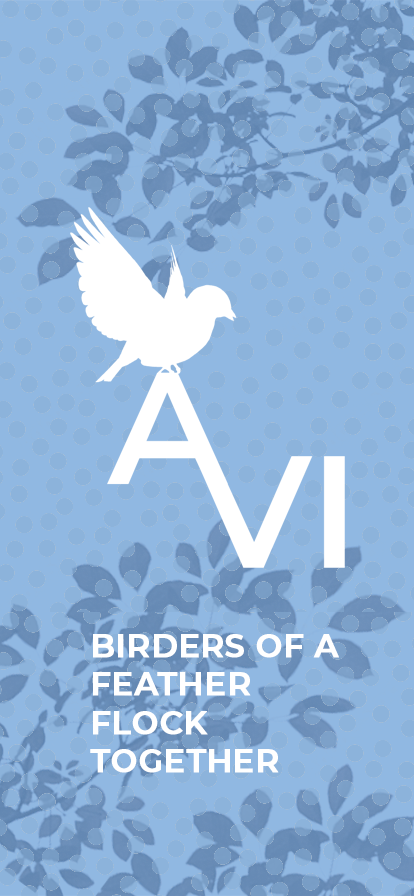
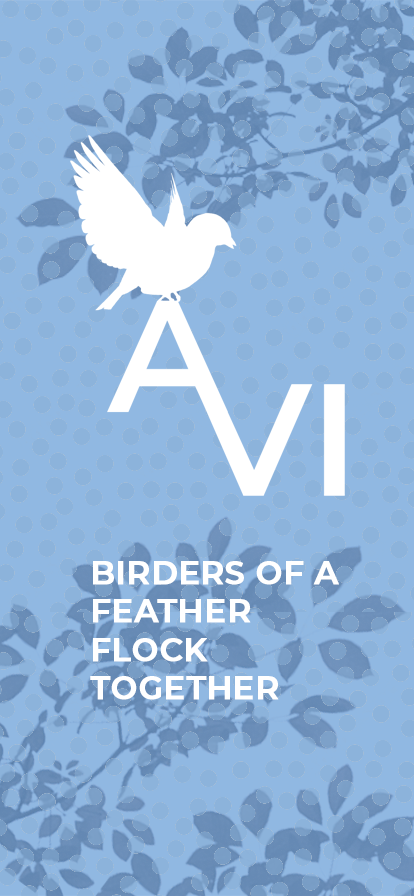
change out landing image, refinement, and start responsive nav, responsive landing image load

Changed region(s): [[0.1739, 0.1562, 0.7536, 0.875], [0.7536, 0.4062, 0.8406, 0.6562], [0.7536, 0.6875, 0.8116, 0.75]]

diff --git a/src/components/NavBar/NavBar.jsx b/src/components/NavBar/NavBar.jsx
@@ -1,5 +1,6 @@
 import { NavLink } from 'react-router-dom'
 import styles from './NavBar.module.css'
+import { slide as Menu } from 'react-burger-menu'
 
 const NavBar = ({ user, handleLogout}) => {
 
@@ -41,3 +42,61 @@ const NavBar = ({ user, handleLogout}) => {
 
 
 export default NavBar
+
+
+// import React, { useState } from 'react';
+// import {
+//   MDBContainer,
+//   MDBCollapse,
+//   MDBNavbar,
+//   MDBNavbarToggler,
+//   MDBIcon,
+//   MDBBtn,
+// } from 'mdb-react-ui-kit';
+
+// export default function App() {
+//   const [showNavExternal2, setShowNavExternal2] = useState(false);
+
+//   return (
+//     <>
+//       <MDBNavbar>
+//         <MDBContainer fluid>
+//           <MDBNavbarToggler
+//             type='button'
+//             data-target='#navbarToggleExternalContent'
+//             aria-controls='navbarToggleExternalContent'
+//             aria-expanded='false'
+//             aria-label='Toggle navigation'
+//             onClick={() => setShowNavExternal2(!showNavExternal2)}
+//           >
+//             <MDBIcon icon='bars' fas />
+//           </MDBNavbarToggler>
+//         </MDBContainer>
+//       </MDBNavbar>
+
+//       <MDBCollapse show={showNavExternal2}>
+//         <div className='bg-light shadow-3 p-4'>
+//           <MDBBtn block className='border-bottom m-0' color='link'>
+//           <li><NavLink to={`/profiles/${user.profile}`}>   Welcome, {user ? user.name.toUpperCase() : 'Birder'}</NavLink></li>
+//           </MDBBtn>
+//           <MDBBtn block className='border-bottom m-0' color='link'>
+//             <li><NavLink to="/profiles">BIRDERS</NavLink></li>
+//           </MDBBtn>
+//           <MDBBtn block className='border-bottom m-0' color='link'>
+//             <li><NavLink to="/birds">BIRDS</NavLink></li>
+//           </MDBBtn>
+//           <MDBBtn block className='border-bottom m-0' color='link'>
+//             <li><NavLink to="/supplylists">SUPPLY LISTS</NavLink></li>
+//           </MDBBtn>
+//             <li><NavLink to="/events">EVENTS</NavLink></li>
+//           <MDBBtn block className='border-bottom m-0' color='link'>
+//             <li><NavLink to="/questions">FIELD NOTES</NavLink></li>
+//           </MDBBtn>
+//           <MDBBtn block className='border-bottom m-0' color='link'>
+//             <li><NavLink to="" onClick={handleLogout}>LOG OUT</NavLink></li>
+//           </MDBBtn>
+//         </div>
+//       </MDBCollapse>
+//     </>
+//   );
+// }

diff --git a/src/components/NavBar/NavBar.module.css b/src/components/NavBar/NavBar.module.css
@@ -22,7 +22,7 @@
   font-weight: 500;
   font-size: 1.2em;
   align-items: center;
-  justify-content: center;
+  justify-content: space-evenly;
   font-family: 'Montserrat', sans-serif;
   color: white;
   text-decoration: none;
@@ -30,7 +30,7 @@
 
 .container li {
   text-align: center;
-  margin: 0 24px;
+  /* margin: 0 24px; */
 }
 h2 {
   font-size: 1.4em;
@@ -38,7 +38,7 @@ h2 {
 
 a {
   font-family: 'Montserrat', sans-serif;
-  color: white;
+  color: rgb(240, 210, 189);
   text-decoration: none;
 
 }
@@ -47,9 +47,18 @@ a:hover {
 }
 
 @media only screen and (max-width: 414px) {
-  .container ul {
+  /* .container ul {
+    display: one;
     padding-left: 0px;
-  }
+    flex-flow: column nowrap;
+    position: fixed;
+    top: 0;
+    right: 0;
+    height: 100vh;
+    width: 275px;
+    padding: 3.5rem;
+
+  } */
   .container li {
     font-size: 15px;
   }
